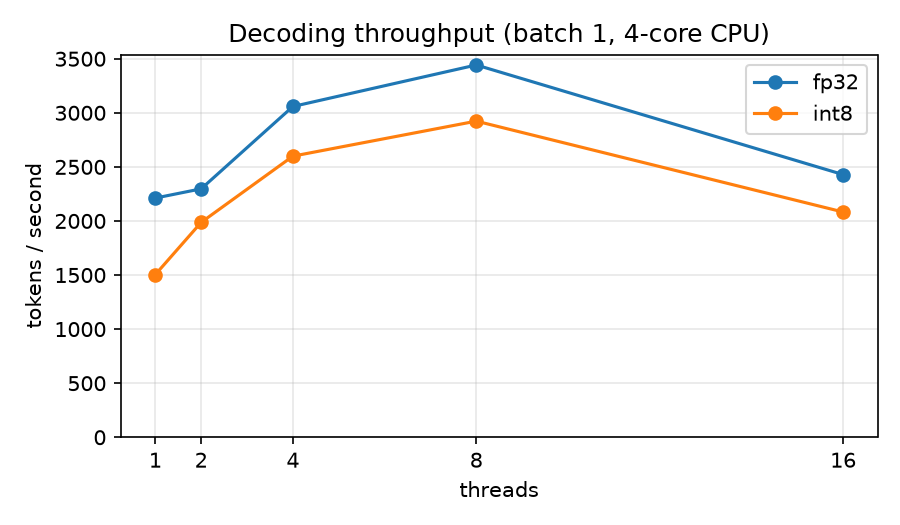
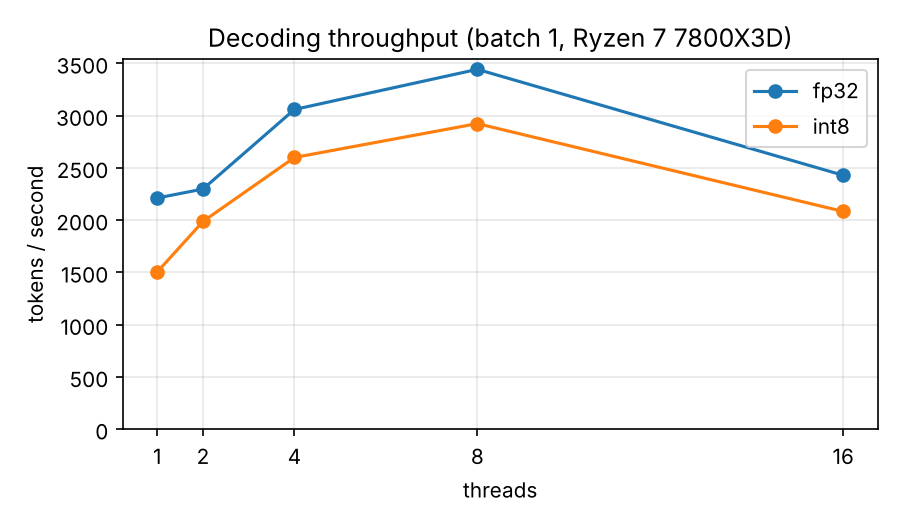
Update README with RTX 5070 / Ryzen 7 7800X3D results
Document the GPU training time, the two-machine speed comparison, and
the finding that int8 only beats fp32 on the 7800X3D when the compiler
can use AVX-512 VNNI, consistent with the fp32 weights fitting in its
96 MB L3. The native-build fp32 regression reproduces on Zen 4, which
rules out AVX-512 downclocking as the main explanation. Plot titles now
name the hardware.

Claude-Session: https://claude.ai/code/session_014aybDk2da4jUwWmSVbPXTR

diff --git a/train/plot.py b/train/plot.py
@@ -23,7 +23,7 @@ def training_curve():
     ax.plot(it, [float(r["val_loss"]) for r in rows], label="validation")
     ax.set_xlabel("iteration")
     ax.set_ylabel("cross-entropy (nats / char)")
-    ax.set_title("Training on Tiny Shakespeare (CPU)")
+    ax.set_title("Training on Tiny Shakespeare")
     ax.grid(alpha=0.3)
     ax.legend()
     fig.tight_layout()
@@ -40,7 +40,7 @@ def throughput():
     ax.set_ylabel("tokens / second")
     ax.set_xticks(threads)
     ax.set_ylim(bottom=0)
-    ax.set_title("Decoding throughput (batch 1, 4-core CPU)")
+    ax.set_title("Decoding throughput (batch 1, Ryzen 7 7800X3D)")
     ax.grid(alpha=0.3)
     ax.legend()
     fig.tight_layout()

diff --git a/README.md b/README.md
@@ -8,19 +8,16 @@ WebAssembly so the model runs entirely in the browser.
 **[Live demo](https://gaming7810.github.io/neww/)** · [Benchmarks](#results) · [What didn't work](#what-didnt-work)
 
 ```
-$ quill generate --prompt "ROMEO:" --temp 0.8
-ROMEO:
-We have some courtesy of the chider. What saws
-What, what could be buck, for his eyes there be
-both the wind there, I am not to be too come.
-
-LADY ANNE:
-Why, no more: thou wilt not dead, and say 'twas I can,
-Nor nor a mourner leanness of the sun.
-
-GREMIO:
-No, I know not I; if that importable say thy hand,
-of all my dear enemy to the heart; where I thyself?
+$ quill generate --prompt "JULIET:"
+JULIET:
+Thou art most news like a queen with the prover-night;
+His hands all such conference to give him how;
+But who not to the matter of these treasure
+And he of our sickless commission
+To his heir enemy in the son, and that proceeds
+I would sanctuary to my lamb; for thou, permit me
+all the people still purpose of a grace of itself,
+yet I have prigout of my daughter.
 ```
 
 ## How it fits together
@@ -42,7 +39,7 @@ PyTorch operation has a hand-written counterpart in Rust.
 
 **Correctness is tested, not assumed.** `export.py` saves PyTorch's logits for a fixed
 input, and `engine/tests/pytorch_parity.rs` checks that the Rust engine reproduces them.
-The fp32 path matches to within 7×10⁻⁶ (max absolute logit difference). The int8
+The fp32 path matches to within 6×10⁻⁶ (max absolute logit difference). The int8
 path is checked to pick the same next token. CI runs these tests, plus clippy, rustfmt
 and a WebAssembly smoke test in Node, on every push.
 
@@ -54,8 +51,8 @@ and a WebAssembly smoke test in Node, on every push.
 | Size | 6 layers, 8 heads, d_model 256, d_ff 768 — **5.13M parameters** |
 | Tokenizer | Character-level, 65 symbols |
 | Data | [Tiny Shakespeare](https://github.com/karpathy/char-rnn) (1.1M characters, 90/10 split) |
-| Training | 2,000 steps × 32 sequences × 128 chars, AdamW, cosine LR, dropout 0.1 — **28 minutes on a 4-core CPU** |
-| Result | validation loss **1.473** nats/char (perplexity 4.36) |
+| Training | 2,000 steps × 32 sequences × 128 chars, AdamW, cosine LR, dropout 0.1, bf16 mixed precision — **48 seconds on an RTX 5070** (the same run took 28 minutes on a 4-core cloud CPU) |
+| Result | validation loss **1.469** nats/char (perplexity 4.34) on the full validation set |
 
 ![training curve](results/training_curve.png)
 
@@ -72,71 +69,94 @@ Activations are quantized the same way just before each matmul, so the inner loo
 
 ## Results
 
-Native build (not WebAssembly), batch size 1, generating 128 tokens from an empty context (median of 5 runs).
-Perplexity is measured on all 871 non-overlapping 128-character windows of the
-validation set. "Agreement" is the fraction of positions where int8 predicts the same
-most likely next character as fp32.
+### Quality
+
+Measured on all 871 non-overlapping 128-character windows of the validation set
+(111k predictions). "Agreement" is the fraction of positions where int8 predicts the
+same most likely next character as fp32.
 
 | | fp32 | int8 |
 |---|---|---|
 | Linear-layer weights | 20.5 MB | **5.8 MB** (3.6× smaller) |
-| Validation loss (nats/char) | 1.4726 | 1.4728 (+0.0002) |
-| Perplexity | 4.361 | 4.361 |
-| Same top-1 prediction as fp32 | — | 99.4% |
-| tok/s, 1 thread | 844 | **1,131** (1.34×) |
-| tok/s, 2 threads | 1,247 | **1,427** |
-| tok/s, 4 threads | 1,130 | 1,148 |
-| tok/s, 1 thread, `-C target-cpu=native` | ~720 | **~1,440** |
-| tok/s, WebAssembly (Node 22, 1 thread) | **~450** | ~215 |
+| Validation loss (nats/char) | 1.4690 | 1.4691 (+0.0001) |
+| Perplexity | 4.345 | 4.345 |
+| Same top-1 prediction as fp32 | — | 99.5% |
 
-Raw numbers: [`results/benchmarks.json`](results/benchmarks.json). Regenerate them with
-`quill report`. This is a shared 4-vCPU cloud VM, so expect ±10% between runs. The
-`target-cpu=native` and WebAssembly rows are medians of repeated runs.
+PyTorch's loss on the same windows is **1.4690**. The Rust fp32 engine gives the same
+number, as it should.
 
-PyTorch reference loss on the same windows: **1.4726**. The Rust fp32 engine gives
-the same number, as it should.
+### Speed
 
-![throughput](results/throughput.png)
+Generating 128 tokens one at a time (batch size 1), in tokens per second. I measured on
+two machines with very different caches, and the results disagree in an instructive way.
 
-**Takeaways**
+| | **Ryzen 7 7800X3D**<br>8 cores / 16 threads, 96 MB L3 | **Cloud VM**<br>4 vCPUs, shared |
+|---|---|---|
+| fp32, 1 thread | 2,212 | 844 |
+| int8, 1 thread | 1,504 – 2,037 | 1,131 |
+| fp32, best thread count | 3,442 (8 threads) | 1,247 (2 threads) |
+| int8, best thread count | 2,923 (8 threads) | 1,427 (2 threads) |
+| fp32, 1 thread, `-C target-cpu=native` | 1,773 | ~720 |
+| int8, 1 thread, `-C target-cpu=native` | **2,944** | **~1,440** |
+| WebAssembly (Node 22), fp32 / int8 | — | ~450 / ~215 |
 
-- **int8 costs almost nothing in quality.** Validation loss moves by 0.0002 nats, and the
-  quantized model picks the same next character as fp32 at 99.4% of the 111k validation
-  positions.
-- **It is smaller and faster on CPU.** The linear weights shrink 3.6×. Decoding is 1.34×
-  faster with a portable build. When the compiler may use the CPU's integer dot-product
-  instructions (AVX-512 VNNI, `-C target-cpu=native`), int8 reaches ~1,440 tok/s on one
-  thread, 1.65× the fastest fp32 build.
-- **More threads stopped helping after 2.** See below.
+Raw numbers for the Ryzen run are in [`results/benchmarks.json`](results/benchmarks.json).
+Regenerate them with `quill report`. Desktop runs are noisy: the portable int8 build
+measured 1,504 tok/s in `report` and 2,037 in a separate run, so I report the range.
+
+![throughput on the Ryzen 7 7800X3D](results/throughput.png)
+
+### Takeaways
+
+- **int8 costs almost nothing in quality.** Validation loss moves by 0.0001 nats, and
+  int8 agrees with fp32 on the next character 99.5% of the time.
+- **Whether int8 is faster depends on the machine.** On the cloud VM, int8 is 1.34×
+  faster even with a portable build. On the 7800X3D, it isn't: the fp32 weights
+  (20.5 MB) fit entirely in the 96 MB L3 cache, so reading less memory saves little,
+  and the portable build's integer loop costs more than it saves. When the compiler may
+  use the CPU's integer dot-product instructions (AVX-512 VNNI, `-C target-cpu=native`),
+  int8 becomes the fastest option at 2,944 tok/s, 1.33× the best single-thread fp32
+  build. So on this CPU, int8's advantage comes from cheaper arithmetic rather than less
+  memory traffic. That interpretation fits all the numbers, but I haven't measured cache
+  misses directly yet.
+- **A GPU changes the training loop, not just the speed.** 48 seconds per run instead of
+  28 minutes makes hyperparameter sweeps practical.
 
 ## What didn't work
 
-1. **Four threads are slower than two.** One token needs about 1 ms of work, spread over
-   43 matmuls (6 layers × 7, plus the output projection), so each parallel region lasts
-   roughly 25 µs. At that size, waking and synchronizing rayon workers costs about as much
-   as the work they share. The `report` run spent 4m43s of its 14m37s of CPU time in the
-   kernel. Ideas: parallelize across attention heads within a larger fused region, or
-   decode several sequences at once so each matmul has more work.
-2. **int8 is 2× *slower* than fp32 in WebAssembly** (~215 vs ~450 tok/s), the opposite of
-   native. My hypothesis, not yet verified, is that baseline WebAssembly SIMD has no 8-bit
-   dot-product instruction, so the widening `i8 × i8 → i32` loop compiles to many more
-   instructions than the f32 one. The demo therefore defaults to fp32. Next step: try
-   the relaxed-SIMD `i32x4.relaxed_dot_i8x16_i7x16_add` instruction.
-3. **`-C target-cpu=native` made fp32 ~18% slower** (~875 → ~720 tok/s, median of three
-   runs each) while making int8 ~34% faster (~1,080 → ~1,440). I don't understand the fp32 regression yet. The
-   next step is to compare the generated assembly for `ops::dot` (`cargo asm`) and test
-   whether the AVX-512 code path is responsible.
-4. **A small evaluation set misled me.** The first 64 validation windows gave a loss of
-   1.30, but the full validation set gives 1.47. The start of the held-out text is simply
-   easier than average. All numbers above use the whole validation set (871 windows).
-5. **The model is starting to overfit.** At the end of training, training loss is 1.17
+1. **Multithreading scales poorly.** One token needs about 0.5 ms of single-thread work
+   on the Ryzen, spread over 43 matmuls (6 layers × 7, plus the output projection), so
+   each parallel region lasts only about 10 µs. Waking and synchronizing rayon workers
+   costs about as much as the work they share. Eight cores give only 1.56×, and 16
+   threads are slower than 8, because each pair of hardware threads shares one core's
+   execution units. On the 4-vCPU cloud VM, throughput already peaked at 2 threads.
+   Ideas: parallelize across attention heads within a larger fused region, or decode
+   several sequences at once so each matmul has more work.
+2. **int8 is 2× *slower* than fp32 in WebAssembly** (~215 vs ~450 tok/s). My hypothesis,
+   not yet verified, is that baseline WebAssembly SIMD has no 8-bit dot-product
+   instruction, so the widening `i8 × i8 → i32` loop compiles to many more instructions
+   than the f32 one. The demo therefore defaults to fp32. Next step: try the
+   relaxed-SIMD `i32x4.relaxed_dot_i8x16_i7x16_add` instruction.
+3. **`-C target-cpu=native` makes fp32 slower on both machines** (−19% on the Ryzen,
+   −18% on the cloud VM) while making int8 much faster. My first guess was that the CPU
+   lowers its clock speed for AVX-512 code, but Zen 4 isn't known to do that, and it
+   shows the same regression. That points at the code the compiler generates for
+   `ops::dot`. One candidate: the 8 partial sums may end up in a single vector register,
+   so every fused multiply-add waits for the previous one. Next step: read the
+   assembly (`cargo asm`) and try several independent vector accumulators.
+4. **A small evaluation set misled me.** In the first training run, the first 64
+   validation windows gave a loss of 1.30, but the full validation set gave 1.47. The
+   start of the held-out text is simply easier than average. All numbers above use the
+   whole validation set.
+5. **The model is starting to overfit.** At the end of training, training loss is 1.18
    and validation loss is 1.45 (see the curve). More dropout or more data would likely
-   help more than more steps.
+   help more than more steps. With 48-second runs on the GPU, this is now cheap to
+   explore.
 
 ## Run it yourself
 
 ```bash
-# 1. Train (about 30 minutes on 4 CPU cores; see below for GPU)
+# 1. Train (under a minute on an RTX 5070, about 30 minutes on 4 CPU cores)
 pip install -r train/requirements.txt
 python train/prepare.py
 python train/train.py
@@ -188,7 +208,14 @@ On Windows, Rust and Python both work natively. Run the `.sh` scripts from Git B
 
 ## Next steps
 
+- **Fix the fp32 regression under `target-cpu=native`** by splitting `ops::dot` across
+  several independent vector accumulators, then check the assembly.
+- **Confirm the cache explanation** by counting cache misses (AMD uProf or `perf`)
+  for fp32 and int8, or by benchmarking a model too large for the 96 MB L3.
 - **Int4 quantization** (two weights per byte), and a comparison of quality against int8.
 - **An int8 model file**, to cut the browser download from 20 MB to about 6 MB.
-- **Explicit SIMD kernels** (AVX2 `vpmaddubsw`, WebAssembly relaxed-SIMD dot products) to make int8 faster than fp32 instead of just smaller.
-- **Run the int8 matmul on a custom RISC-V core.** I built a pipelined RV32I processor on FPGA in a previous project. The next step is a custom dot-product instruction.
+- **Faster int8 in the browser** with WebAssembly relaxed-SIMD dot products.
+- **A hyperparameter sweep on the GPU** (dropout, model size, context length) to reduce
+  overfitting.
+- **Run the int8 matmul on a custom RISC-V core.** I built a pipelined RV32I processor on
+  FPGA in a previous project. The next step is a custom dot-product instruction.
